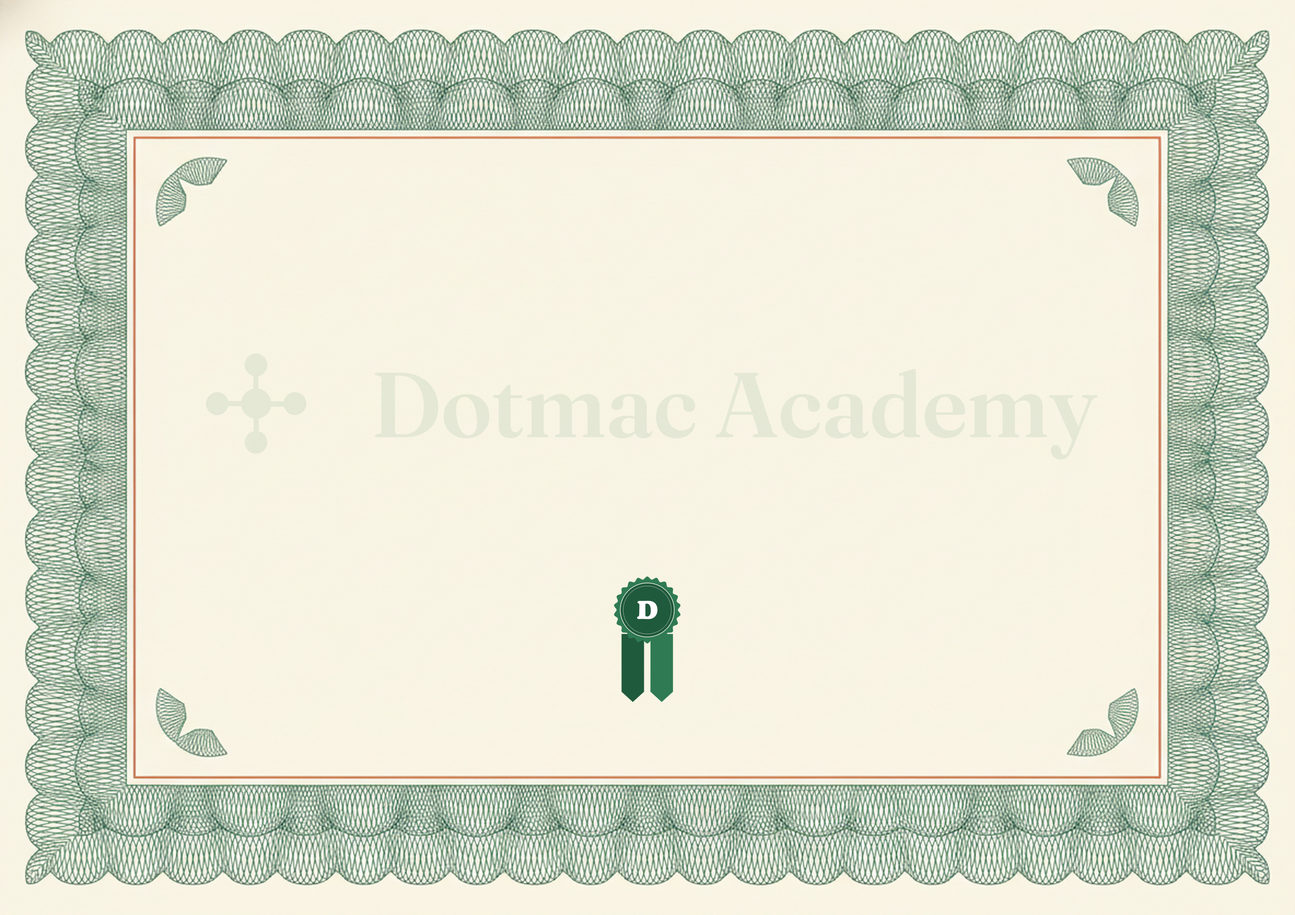
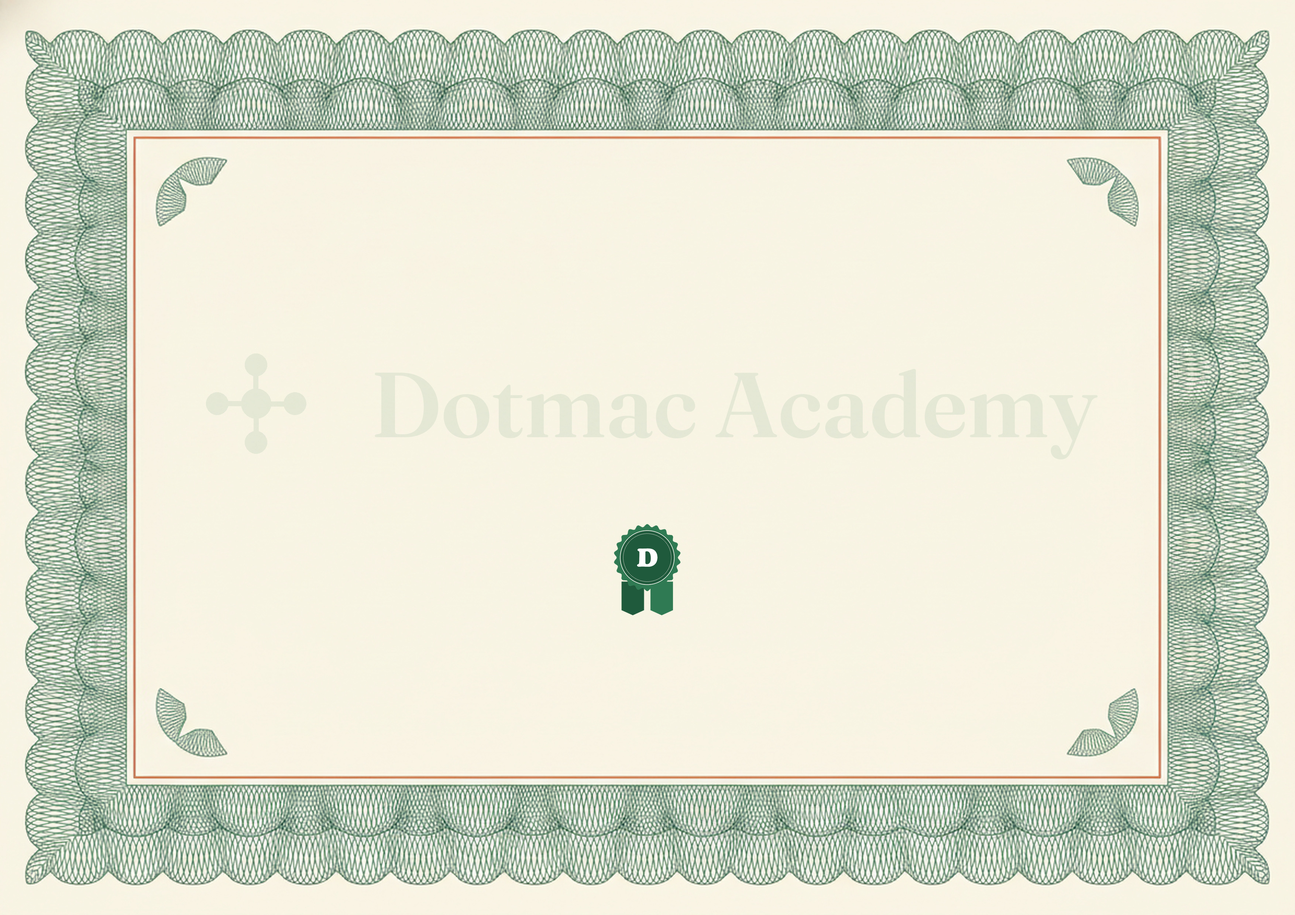
fix: seat the ribbon seal level with the footer rule, not past it
Measured against the rendered PDF: the ribbon's tails hung ~15mm below
the "Academy Director"/"Date" rule line, well past where those labels
sit, while the rest of the footer row terminated right at the rule --
the medal read as sinking below the row instead of sitting level with
it.

Shortened the ribbon tails (tail_h 0.85 -> 0.42 of the medallion
diameter) and moved the seal up so its bottom now lands within ~1mm of
the rule, matching how a real hanging medal sits against its ribbon
line. Tightened the surrounding footer spacing (date/rule/labels/serial
moved up 5-7mm) to match.

Claude-Session: https://claude.ai/code/session_01QimRmrqPzEkv2Netoosup5

Changed region(s): [[0.4661, 0.5589, 0.5282, 0.7762]]

diff --git a/app/services/certificates.py b/app/services/certificates.py
@@ -180,27 +180,29 @@ def render_certificate_pdf(
     # Signature / seal / date footer -- the background's ribbon seal is
     # centered between these two columns (see generate_cert_frame.py), so
     # they stop well short of the middle rather than spanning full width.
+    # The rule's y (140) is matched by hand to the seal's baked-in vertical
+    # position there -- keep the two in sync if either moves.
     col_w = 62.0
     left_x = _CONTENT_X0 + 8
     right_x = _CONTENT_X1 - 8 - col_w
 
     pdf.set_font("Manrope", "B", 11)
     pdf.set_text_color(*_CHARCOAL)
-    pdf.set_xy(right_x, 133)
+    pdf.set_xy(right_x, 128)
     pdf.cell(col_w, 7, f"{issued_at:%d %B %Y}", align="C")
 
     pdf.set_draw_color(*_EMERALD)
     pdf.set_line_width(0.25)
-    pdf.line(left_x, 145, left_x + col_w, 145)
-    pdf.line(right_x, 145, right_x + col_w, 145)
+    pdf.line(left_x, 140, left_x + col_w, 140)
+    pdf.line(right_x, 140, right_x + col_w, 140)
 
     for x, label in ((left_x, "Academy Director"), (right_x, "Date")):
         pdf.set_font("Manrope", "", 9)
         pdf.set_text_color(*_MUTED)
-        pdf.set_xy(x, 147.5)
+        pdf.set_xy(x, 142.5)
         pdf.cell(col_w, 5, label, align="C")
 
-    _tracked(pdf, y=172, text=f"Certificate Serial  ·  {serial}", size=8,
+    _tracked(pdf, y=165, text=f"Certificate Serial  ·  {serial}", size=8,
              spacing=0.4, color=_MUTED)
 
     out = pdf.output()  # fpdf2 >= 2.7 returns a bytearray

diff --git a/content/management/figures-src/generate_cert_frame.py b/content/management/figures-src/generate_cert_frame.py
@@ -147,7 +147,10 @@ def build_ribbon_seal(diam: int) -> Image.Image:
     ribbon, but carrying the actual brand mark instead of clip art."""
     ss = 3
     d = diam * ss
-    tail_h = int(d * 0.85)
+    # Short tails, deliberately: at 0.85 (the first cut) the ribbon hung well
+    # past the footer rule/labels it sits beside, so the medal looked like it
+    # was sinking below the row instead of sitting level with it.
+    tail_h = int(d * 0.42)
     canvas = Image.new("RGBA", (d, d + tail_h), (0, 0, 0, 0))
     draw = ImageDraw.Draw(canvas)
     cx, cy = d // 2, d // 2
@@ -224,8 +227,12 @@ def compose(border: Image.Image) -> Image.Image:
     wm = build_watermark(int(W * 0.72))
     out.alpha_composite(wm, ((W - wm.width) // 2, int(H * 0.36)))
 
+    # Top of the seal graphic (medallion+tails) at 0.566*H puts its bottom
+    # right around the footer rule certificates.py draws at 140mm -- keep
+    # the two in sync by hand if either the seal proportions above or the
+    # footer's rule y in certificates.py change.
     seal = build_ribbon_seal(int(W * 0.062))
-    out.alpha_composite(seal, ((W - seal.width) // 2, int(H * 0.623)))
+    out.alpha_composite(seal, ((W - seal.width) // 2, int(H * 0.566)))
 
     return out.convert("RGB")
 
